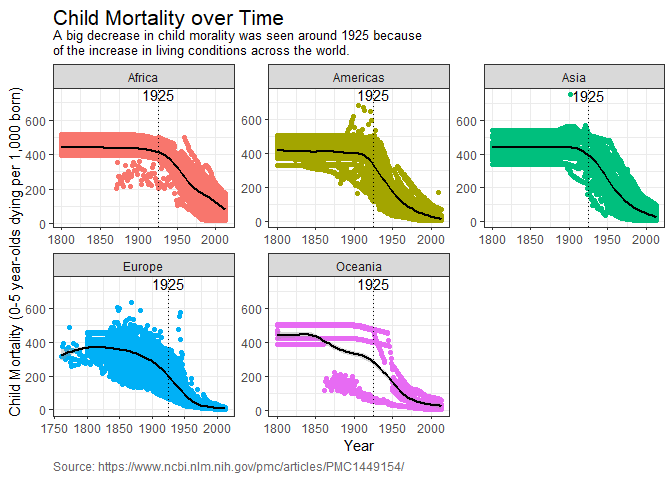
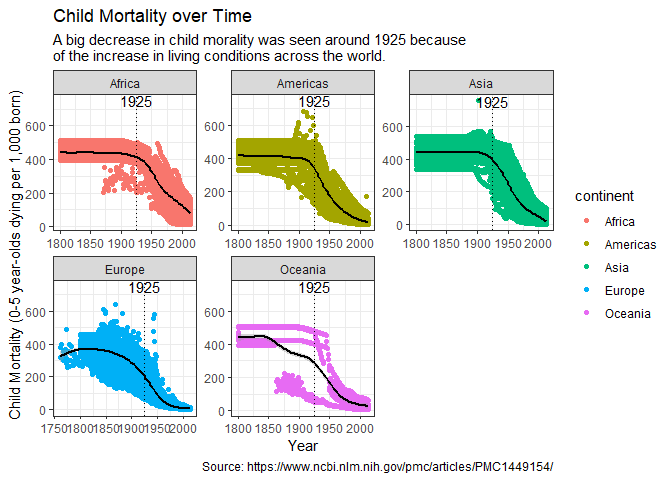
graph

Changed region(s): [[0.0, 0.0, 1.0, 1.0]]

diff --git a/Week6/Task11/task11.html b/Week6/Task11/task11.html
@@ -196,13 +196,9 @@ pre code {
   labs(x = &#39;Year&#39;, y = &#39;Child Mortality (0-5 year-olds dying per 1,000 born)&#39;, title = &#39;Child Mortality over Time&#39;,
        subtitle = &#39;A big decrease in child morality was seen around 1925 because\nof the increase in living conditions across the world.&#39;,
        caption = &#39;Source: https://www.ncbi.nlm.nih.gov/pmc/articles/PMC1449154/&#39;) +
-    theme_bw() +
-    theme(legend.position =  &#39;none&#39;,
-          plot.title = element_text(size = 16,margin = margin(t = 1)),
-          plot.subtitle = element_text(size = 10), 
-          plot.caption = element_text(hjust = 0, colour = &#39;gray40&#39;))</code></pre>
+    theme_bw()</code></pre>
 <pre><code>## `geom_smooth()` using method = &#39;gam&#39; and formula &#39;y ~ s(x, bs = &quot;cs&quot;)&#39;</code></pre>
[2 lines of base64/hex data omitted]
 </div>
 
 
